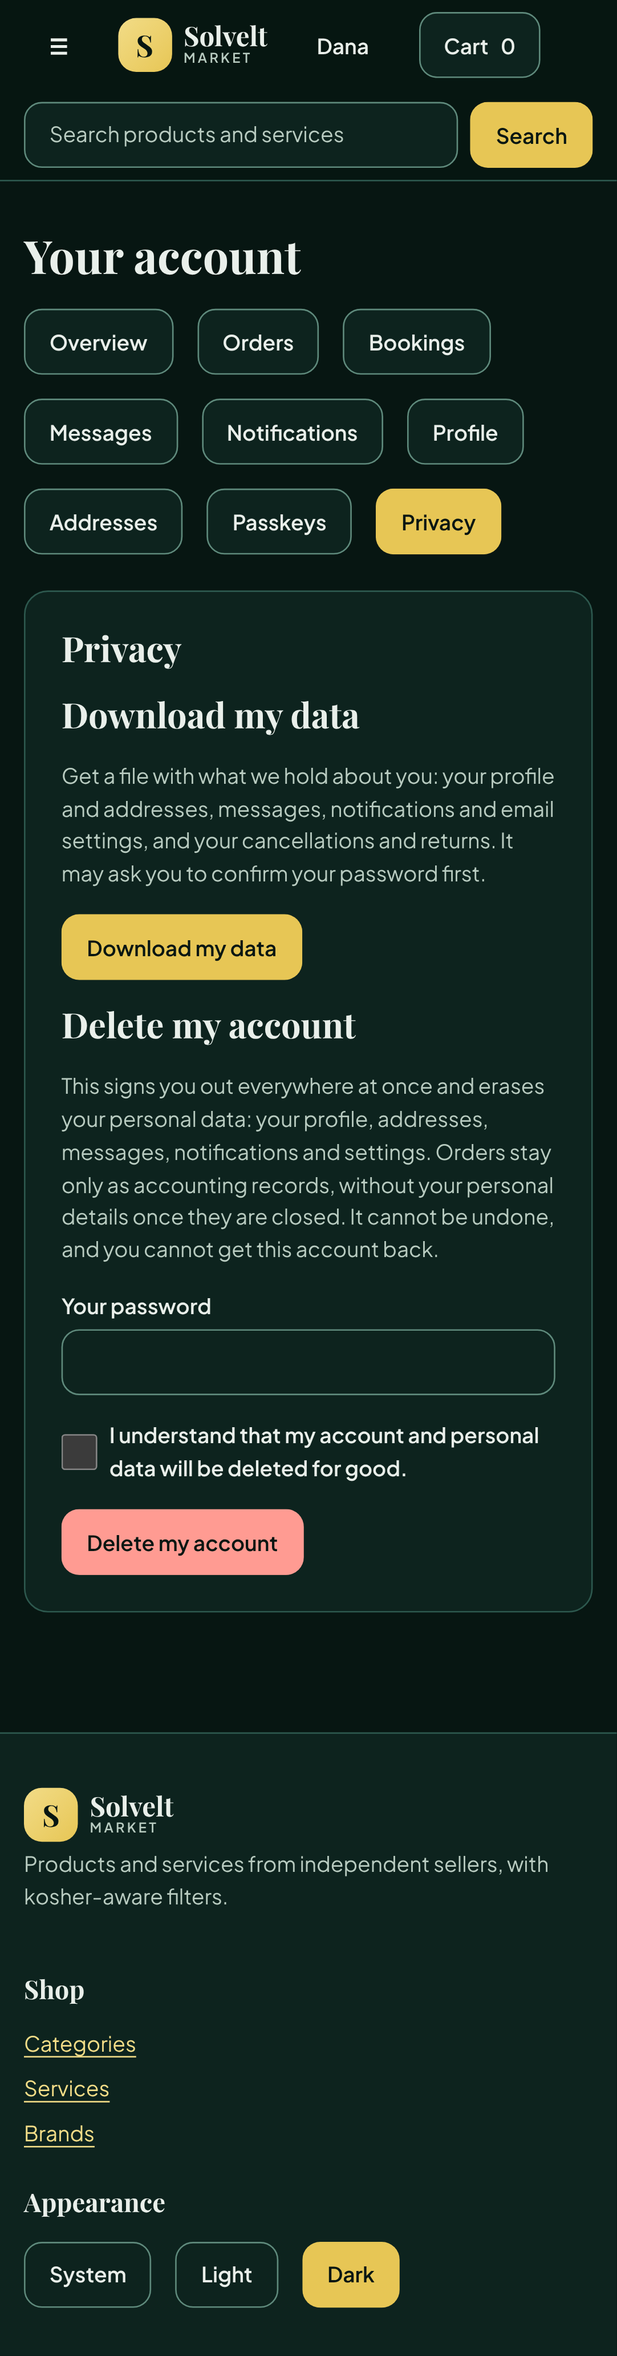
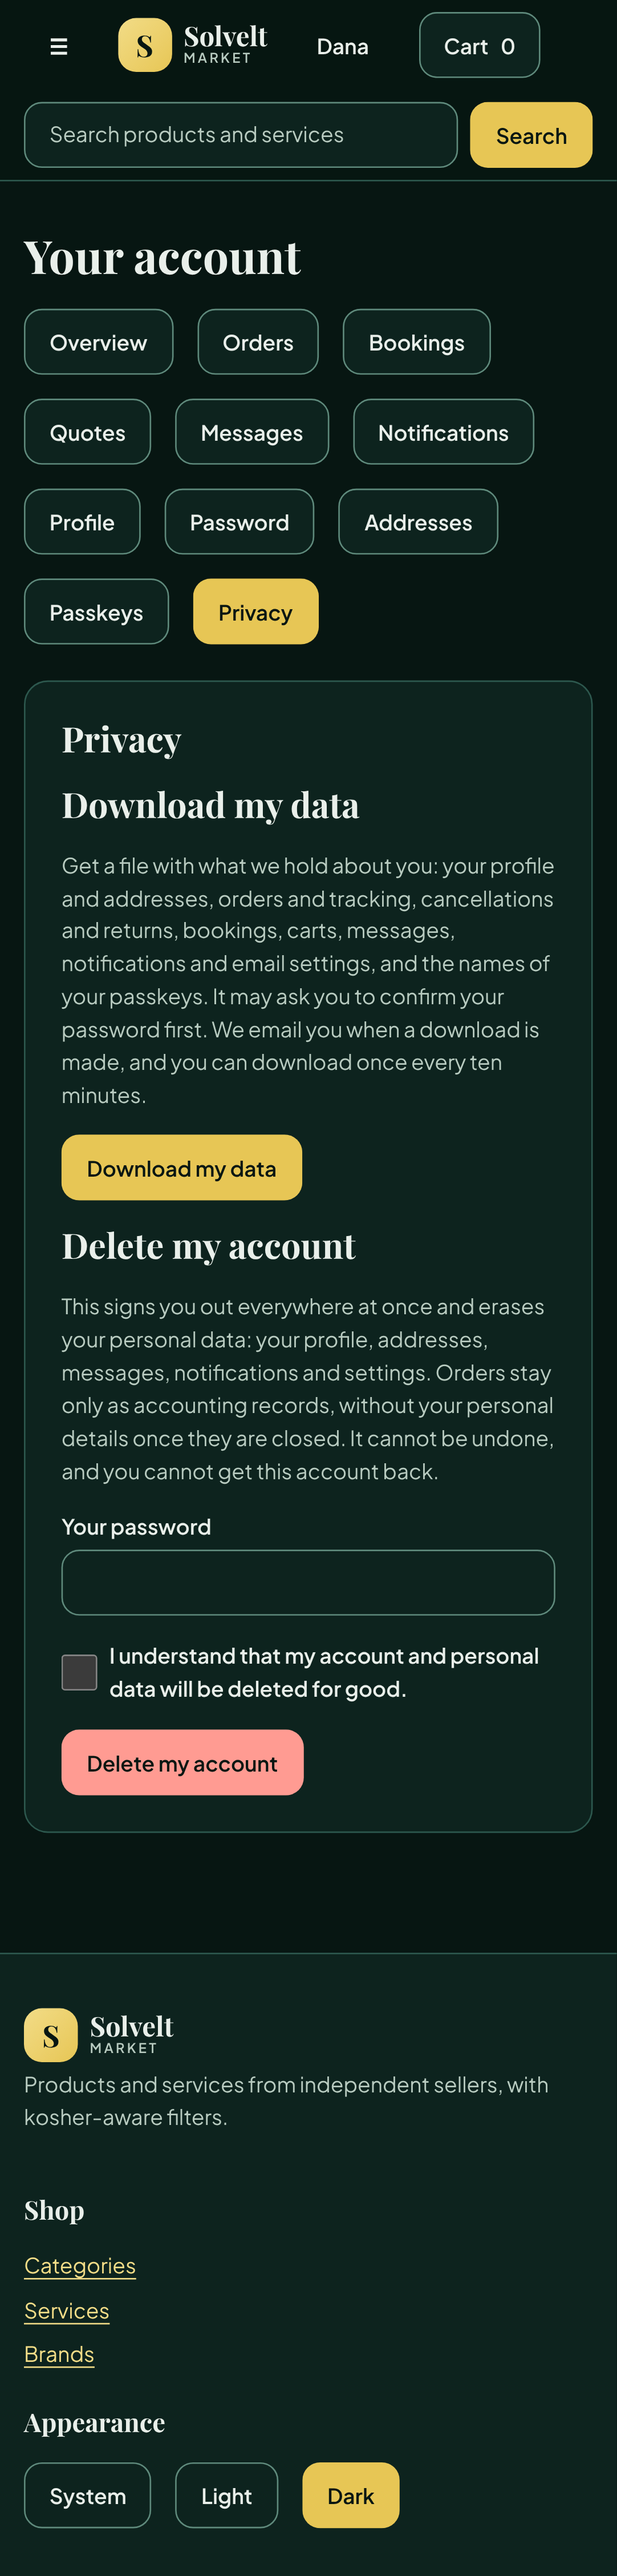
M5 web: notification text and link for data_exported, a download refused for the ten-minute limit is said so on the privacy page, the file lists every section, M5W-19
Claude-Session: https://claude.ai/code/session_018hZb8rkK2514h97PhkHGYf

diff --git a/app/routes/account.privacy.tsx b/app/routes/account.privacy.tsx
@@ -22,7 +22,8 @@ const CONFIRM = "/account/confirm?next=%2Faccount%2Fprivacy";
 
 export function loader({ request, context }: Route.LoaderArgs) {
   requireAccount(request, context);
-  return { exportFailed: new URL(request.url).searchParams.get("export") === "failed" };
+  const q = new URL(request.url).searchParams.get("export");
+  return { exportFailed: q === "failed", exportWait: q === "wait" };
 }
 
 /**
@@ -63,7 +64,8 @@ export default function Privacy({ loaderData }: Route.ComponentProps) {
       <AuthPage title="Privacy">
         <section className="stack" aria-labelledby="download-h">
           <h2 id="download-h">Download my data</h2>
-          <p className="muted">Get a file with what we hold about you: your profile and addresses, messages, notifications and email settings, and your cancellations and returns. It may ask you to confirm your password first.</p>
+          <p className="muted">Get a file with what we hold about you: your profile and addresses, orders and tracking, cancellations and returns, bookings, carts, messages, notifications and email settings, and the names of your passkeys. It may ask you to confirm your password first. We email you when a download is made, and you can download once every ten minutes.</p>
+          {loaderData.exportWait && <FormMessage kind="error">You can download your data once every ten minutes. Please try again later.</FormMessage>}
           {loaderData.exportFailed && <FormMessage kind="error">We could not prepare your file right now. Please try again.</FormMessage>}
           <Form method="post" action="/account/privacy/export" reloadDocument>
             <CsrfField />

diff --git a/app/lib/notifications.test.ts b/app/lib/notifications.test.ts
@@ -12,6 +12,7 @@ describe("notification text and links", () => {
     expect(notificationText(n({ kind: "refund_issued", parameters: { sellerName: "Bakery", amountCents: 1234, currency: "<b>" } }))).toBe("Bakery refunded $12.34 for order MP-1.");
     expect(notificationText(n({ kind: "out_for_delivery" }))).toBe("Order MP-1 is out for delivery.");
     expect(notificationText(n({ kind: "message_received", parameters: { sellerName: "Bakery", subject: "Order MP-1" } }))).toBe("Bakery sent you a message about Order MP-1.");
+    expect(notificationText(n({ kind: "data_exported", orderNumber: null }))).toBe("Your account data was downloaded. If this was not you, change your password now.");
     expect(notificationText(n({ kind: "booking_confirmed", orderNumber: null, parameters: { bookingNumber: "B-7" } }))).toBe("There is an update on your booking B-7.");
   });
 
@@ -28,6 +29,7 @@ describe("notification text and links", () => {
     expect(notificationLink(n({ kind: "message_received", parameters: { threadId: "abc-123" } }))).toBe("/account/messages/abc-123");
     expect(notificationLink(n({ kind: "message_received", parameters: { threadId: "//evil.example" } }))).toBe("/account/messages");
     expect(notificationLink(n({ kind: "booking_cancelled" }))).toBe("/account/bookings");
+    expect(notificationLink(n({ kind: "data_exported", orderNumber: null }))).toBe("/account/privacy");
   });
 
   it("lists the six switchable email categories of the API (refunds, cancellations and failed deliveries are always emailed)", () => {

diff --git a/app/lib/notifications.ts b/app/lib/notifications.ts
@@ -42,6 +42,7 @@ export function notificationText(n: NotificationItem): string {
       const cents = typeof n.parameters?.amountCents === "number" ? n.parameters.amountCents : null;
       return `${seller(n)} refunded${cents !== null ? ` ${formatMoney(cents, /^[A-Z]{3}$/.test(str(n.parameters?.currency)) ? str(n.parameters?.currency) : "USD")}` : ""} for ${order}.`;
     }
+    case "data_exported": return "Your account data was downloaded. If this was not you, change your password now.";
     case "message_received": return `${seller(n)} sent you a message${str(n.parameters?.subject) ? ` about ${str(n.parameters?.subject)}` : ""}.`;
     default:
       return n.kind.startsWith("booking_") ? `There is an update on your booking${str(n.parameters?.bookingNumber) ? ` ${str(n.parameters?.bookingNumber)}` : ""}.` : "There is an update on your account.";
@@ -53,6 +54,7 @@ const SAFE_ID = /^[A-Za-z0-9_-]{1,100}$/;
 /** Where a notification leads: only our own account pages, built from ids that pass the same check as every path id. */
 export function notificationLink(n: NotificationItem): string | null {
   if (n.kind === "message_received") { const t = str(n.parameters?.threadId); return SAFE_ID.test(t) ? `/account/messages/${encodeURIComponent(t)}` : "/account/messages"; }
+  if (n.kind === "data_exported") return "/account/privacy";
   if (n.kind.startsWith("booking_")) return "/account/bookings";
   return n.orderNumber && SAFE_ID.test(n.orderNumber) ? `/account/orders/${encodeURIComponent(n.orderNumber)}` : null;
 }

diff --git a/e2e/privacy.spec.ts b/e2e/privacy.spec.ts
@@ -25,10 +25,14 @@ test("the data download is a file with the signed-in buyer's own data, made by a
   const path = await download.path();
   const json = JSON.parse((await import("node:fs")).readFileSync(path!, "utf8"));
   expect(json.sections.account.profile.email).toBe(email);
-  expect(Object.keys(json.sections).sort()).toEqual(["account", "cancellations-and-returns", "messages", "notifications"]);
+  expect(Object.keys(json.sections).sort()).toEqual(["account", "bookings", "cancellations-and-returns", "carts", "messages", "notifications", "orders", "passkeys", "tracking"]);
   // a GET of the export route never makes a file
   await page.goto("/account/privacy/export");
   await expect(page).toHaveURL(/\/account\/privacy$/);
+  // a second download within ten minutes is refused by the API, and the page says when, instead of "try again"
+  await page.getByRole("button", { name: "Download my data" }).click();
+  await expect(page.getByText("You can download your data once every ten minutes. Please try again later.")).toBeVisible();
+  await expect(page.getByText("We could not prepare your file")).toHaveCount(0);
 });
 
 test("deleting the account needs the tick and the right password, then signs the browser out for good", async ({ page }) => {

diff --git a/app/routes/account.privacy.export.ts b/app/routes/account.privacy.export.ts
@@ -24,6 +24,7 @@ export async function action({ request, context }: Route.ActionArgs) {
     const res = await api.dataExport(ctx);
     if (res.status === 403) return redirect(CONFIRM, { headers: privateHeaders });
     if (res.status === 401) throw new ApiError(401, "unauthorized", "Sign in required");
+    if (res.status === 429) return redirect("/account/privacy?export=wait", { status: 303, headers: privateHeaders });   // one file per ten minutes (API M5-33)
     if (!res.ok) return redirect("/account/privacy?export=failed", { status: 303, headers: privateHeaders });
     return new Response(res.body, {
       status: 200,

diff --git a/docs/DESIGN.md b/docs/DESIGN.md
@@ -162,6 +162,7 @@ Not in W1 yet: guest checkout entry (M3), account deletion, email change.
 | M5W-16 | 2026-11-04 | **O-21 on the email settings page (review W1; API M5-21).** The six optional categories are checkboxes (Order accepted, Shipped, Out for delivery, Delivered, Messages, Booking reminders). Refunds, cancellations, delivery problems, returns and booking changes are listed under "Always on" as checked, disabled boxes with the text "Required for your orders and account"; they are never in a save (`CATEGORY_KEYS` excludes them, a unit test pins it; disabled inputs are not submitted either). Supersedes the sentence in M5W-14. | Decision O-21. |
 | M5W-17 | 2026-11-05 | **Privacy page (`/account/privacy`, API M5-32 and M1's account deletion).** Two sections. *Download my data*: a plain form POST to `/account/privacy/export` (a resource route: CSRF-checked, works without JavaScript, a GET only redirects back, so no link or prefetcher can start a file) that streams the API's JSON through as `solvelt-my-data.json` (`attachment`, `no-store`, `nosniff`); a sign-in older than the re-auth window sends the person to `/account/confirm` first and back. *Delete my account*: password + a tick ("I understand…"); the API checks the password and the recent sign-in; success rotates the session cookie and goes to `/?account=deleted`; wrong password, missing tick, rate limit and conflicts are shown on the page. The account nav gains Privacy (every account screenshot was regenerated); the page has axe checks in light and dark on desktop and mobile and screenshots in docs/screenshots/privacy-*. | Brief: privacy pages. |
 | M5W-18 | 2026-11-05 | **Booking message threads (API M5-31).** `/account/messages/new?booking=BK-…` starts a thread with the provider of a booking (the id passes the same safe-id check as order numbers; anything else is a 404); the heading says "Message the provider about booking …", the hidden field carries `marketplaceBookingId`, and the thread page shows a "View this booking" link to `/bookings/:id`. Inbox rows need no change (the API supplies provider name and subject). No new page, so no new screenshots; E2E covers start, link and the 404, and the messages axe checks still pass. | Brief: booking messages. |
+| M5W-19 | 2026-11-05 | **Notification `data_exported` (API M5-33).** Downloading the account data now leaves a notification (and an email). The centre says "Your account data was downloaded. If this was not you, change your password now." and links to `/account/privacy`; the text is fixed (no parameters), and an older page would have shown the generic account line. A second download within 10 minutes is refused by the API (429 `export_rate_limited`); the privacy page says so (&export=wait: "You can download your data once every ten minutes") instead of the generic "try again", and its text now lists every section of the file; privacy screenshots regenerated. | Orchestrator review MED-2. |
 
 ## M2 web: product page (PDP)
 
